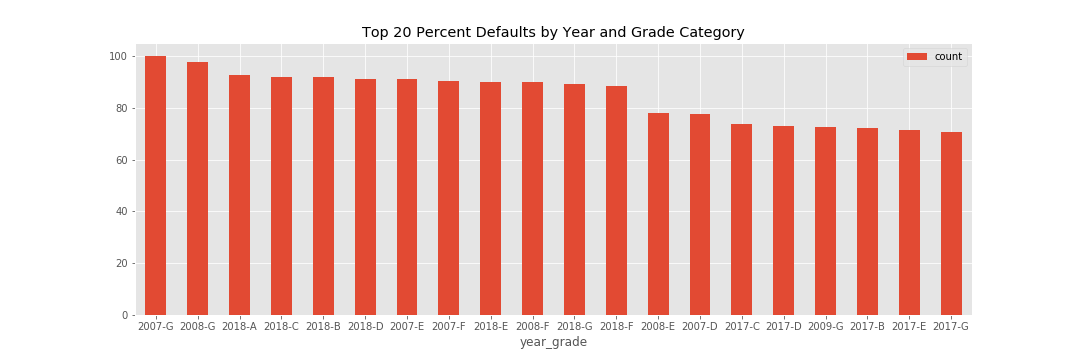
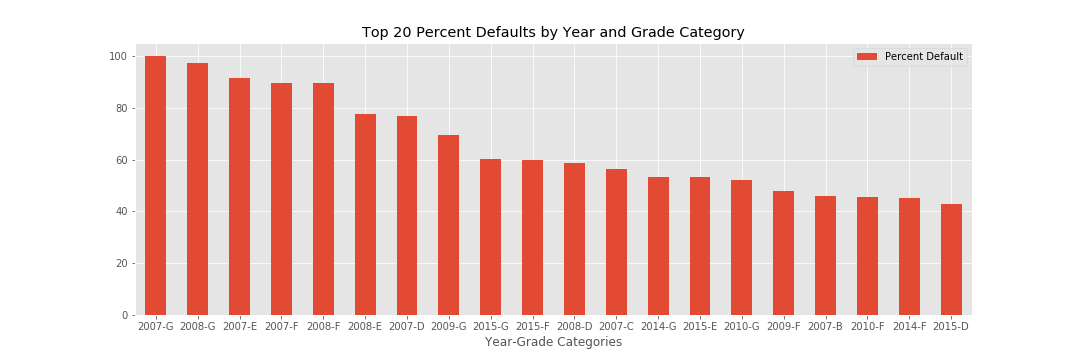
update plots and notebook

diff --git a/assignment.py b/assignment.py
@@ -217,6 +217,9 @@ def get_defaults(df):
 
     defaults_count_top_20.plot.bar(rot=0)
     plt.title('Top 20 Percent Defaults by Year and Grade Category')
+    plt.xlabel('Year-Grade Categories')
+    L = plt.legend()
+    L.get_texts()[0].set_text('Percent Default')
     plt.savefig('img/top_20_default_categories.png')
 
 
@@ -244,13 +247,21 @@ def annualized_rate_of_return(df):
     rate_return_top = rate_return_sort.head(10)
     rate_return_bot = rate_return_sort.tail(10)
 
-    print('Top 10 Annualized Rate Return by Year-Grade')
     rate_return_top.plot.bar(rot=0)
+    L = plt.legend()
+    L.get_texts()[0].set_text('Annualized Rate Return')
+    plt.title('Top 10 Annualized Rate Return by Year-Grade')
+    plt.xlabel('Year-Grade Categories')
     plt.savefig('img/rate_return_top.png')
 
-    print('Bottom 10 Annualized Rate Return by Year-Grade')
     rate_return_bot.plot.bar(rot=0)
+    L = plt.legend()
+    L.get_texts()[0].set_text('Annualized Rate Return')
+    plt.title('Bottom 10 Annualized Rate Return by Year-Grade')
+    plt.xlabel('Year-Grade Categories')
     plt.savefig('img/rate_return_bot.png')
+
+    return rate_return_sort
 
 
 def logistic_regression(df):
